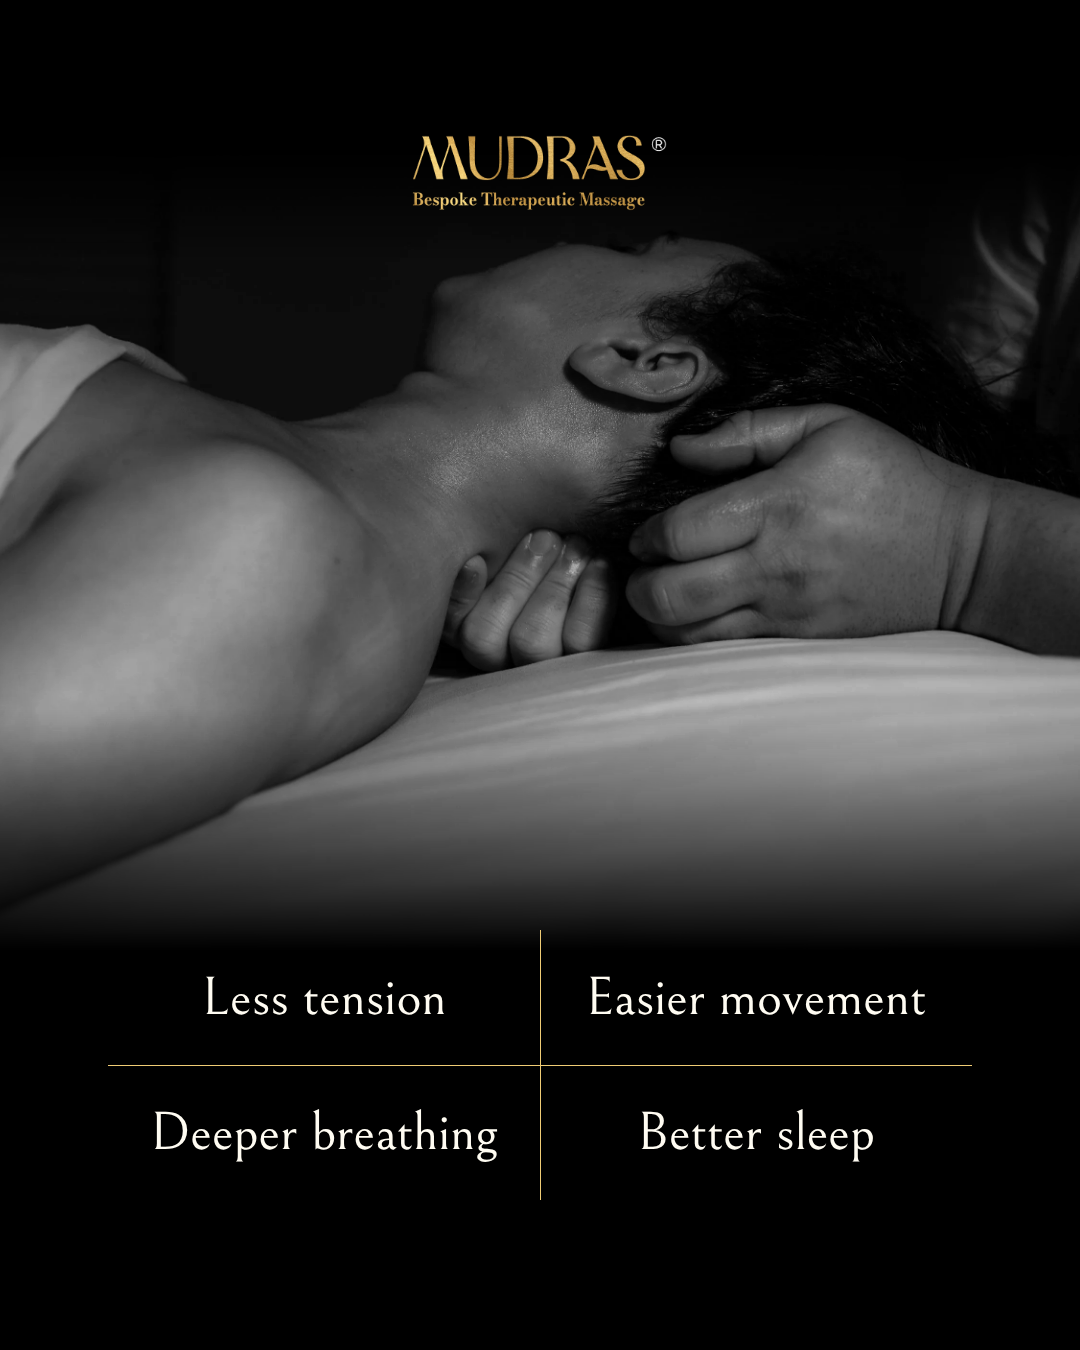
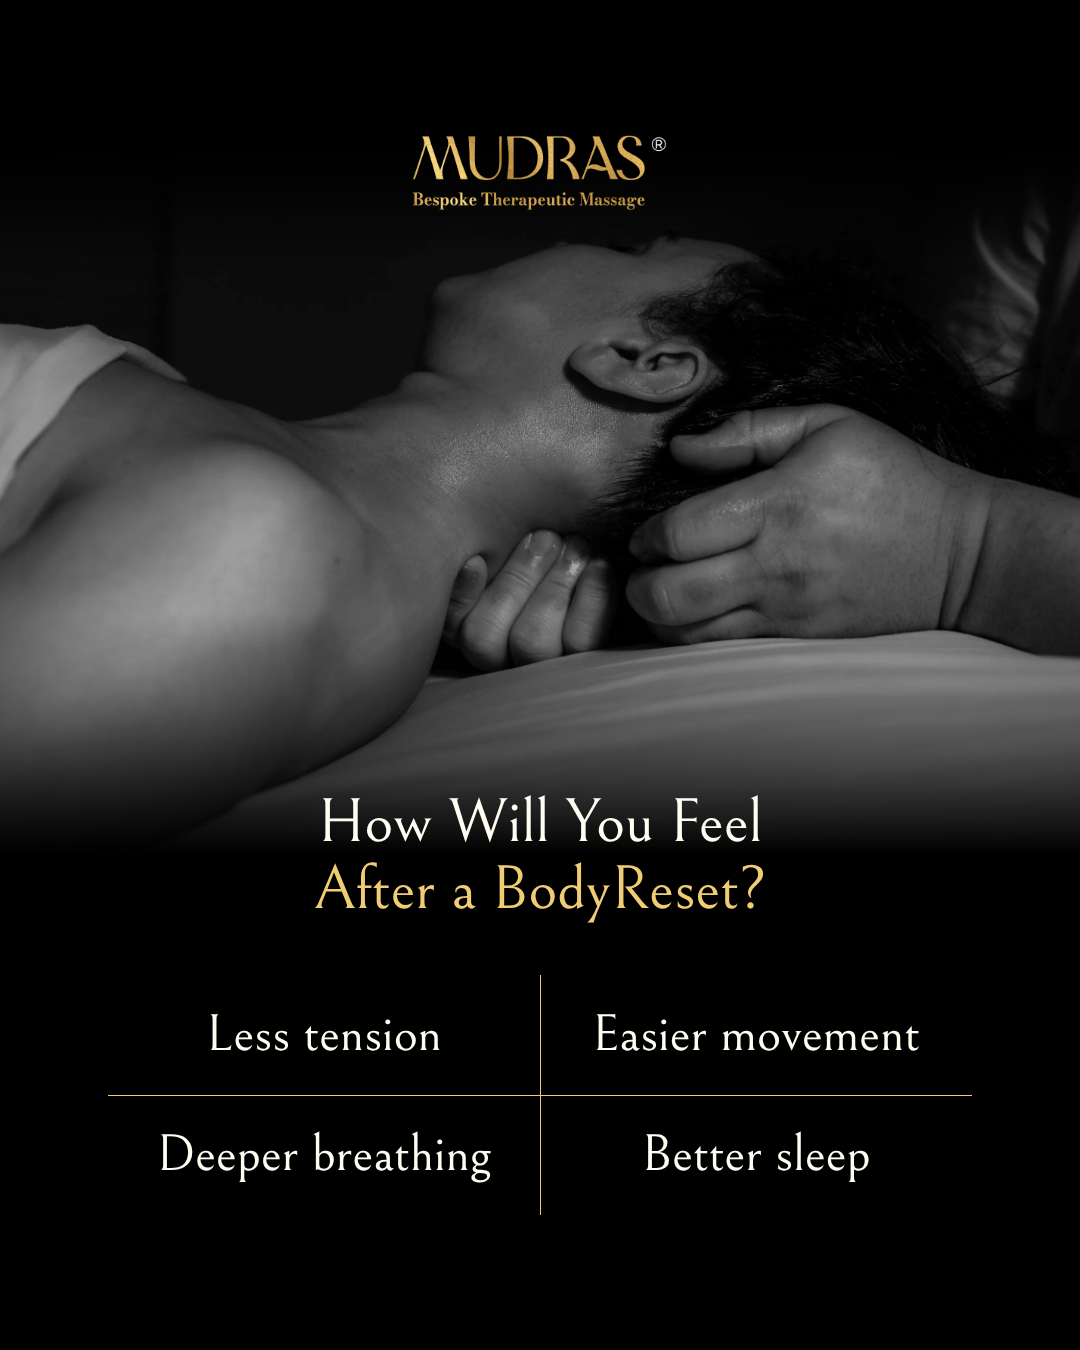
Mudras FB benefits post: add heading 'How Will You Feel After a BodyReset?'
Claude-Session: https://claude.ai/code/session_01WnXcuRrGu4zGnnykNFmZUS

diff --git a/deliverables/mudras/source/design/fb-benefits.html b/deliverables/mudras/source/design/fb-benefits.html
@@ -18,21 +18,22 @@ body.notext .t{visibility:hidden}
 .p45{width:1080px;height:1350px}
 .photo{position:absolute;inset:0;background-repeat:no-repeat;background-size:cover;filter:grayscale(1) contrast(1.05) brightness(1.1)}
 .shade{position:absolute;inset:0;background:linear-gradient(180deg,rgba(0,0,0,.35) 0%,rgba(0,0,0,0) 16%,rgba(0,0,0,0) 50%,rgba(0,0,0,.72) 64%,rgba(0,0,0,.88) 100%)}
-.grid{position:absolute;left:108px;right:108px;top:930px;height:270px;display:grid;grid-template-columns:1fr 1fr;grid-template-rows:1fr 1fr}
+.grid{position:absolute;left:108px;right:108px;top:975px;height:240px;display:grid;grid-template-columns:1fr 1fr;grid-template-rows:1fr 1fr}
 .grid:before{content:"";position:absolute;left:50%;top:0;bottom:0;border-left:1.5px solid var(--gold)}
 .grid:after{content:"";position:absolute;top:50%;left:0;right:0;border-top:1.5px solid var(--gold)}
-.grid div{display:flex;align-items:center;justify-content:center;font-family:var(--serif);font-size:54px;line-height:1}
+.grid div{display:flex;align-items:center;justify-content:center;font-family:var(--serif);font-size:52px;line-height:1}
 .logo img{width:100%;display:block}
 </style></head><body>
 
 <div class="ab p45" id="fb_benefits">
-  <div class="photo" style="top:150px;bottom:auto;height:800px;background-image:url(../img/benefits_neck.jpg);background-size:auto 800px;background-position:58% 0%;-webkit-mask-image:linear-gradient(180deg,transparent 0%,#000 14%,#000 70%,transparent 100%);mask-image:linear-gradient(180deg,transparent 0%,#000 14%,#000 70%,transparent 100%)"></div>
+  <div class="photo" style="top:150px;bottom:auto;height:800px;background-image:url(../img/benefits_neck.jpg);background-size:auto 800px;background-position:58% 0%;-webkit-mask-image:linear-gradient(180deg,transparent 0%,#000 14%,#000 58%,transparent 88%);mask-image:linear-gradient(180deg,transparent 0%,#000 14%,#000 58%,transparent 88%)"></div>
   <div class="logo t" style="position:absolute;left:50%;transform:translateX(-50%);top:135px;width:260px"><img src="../site/orig_Group_1487669750.png"></div>
+  <div class="serif t" style="position:absolute;left:108px;right:108px;top:790px;text-align:center;font-family:var(--serif);font-size:62px;line-height:1.08">How Will You Feel<br><span style="color:var(--gold)">After a BodyReset?</span></div>
   <div class="grid">
-    <div class="t">Less tension</div>
-    <div class="t">Easier movement</div>
-    <div class="t">Deeper breathing</div>
-    <div class="t">Better sleep</div>
+    <div><span class="t">Less tension</span></div>
+    <div><span class="t">Easier movement</span></div>
+    <div><span class="t">Deeper breathing</span></div>
+    <div><span class="t">Better sleep</span></div>
   </div>
 </div>
 

diff --git a/deliverables/mudras/facebook-bodyreset-benefits/caption-and-image-link.md b/deliverables/mudras/facebook-bodyreset-benefits/caption-and-image-link.md
@@ -5,9 +5,11 @@ File: `facebook/facebook-feed-1080x1350.png`
 Brand palette: black, gold and white, with a black-and-white photo. The layout:
 - gold logo centred at the top, over the dark studio wall
 - the photo of a relaxed client in the middle
+- the heading "How Will You Feel After a BodyReset?", with the second line in gold
 - the four benefits in a 2×2 grid divided by a thin gold cross
 
 ## Image text
+How Will You Feel After a BodyReset?
 Less tension · Easier movement · Deeper breathing · Better sleep
 
 ## Image used
